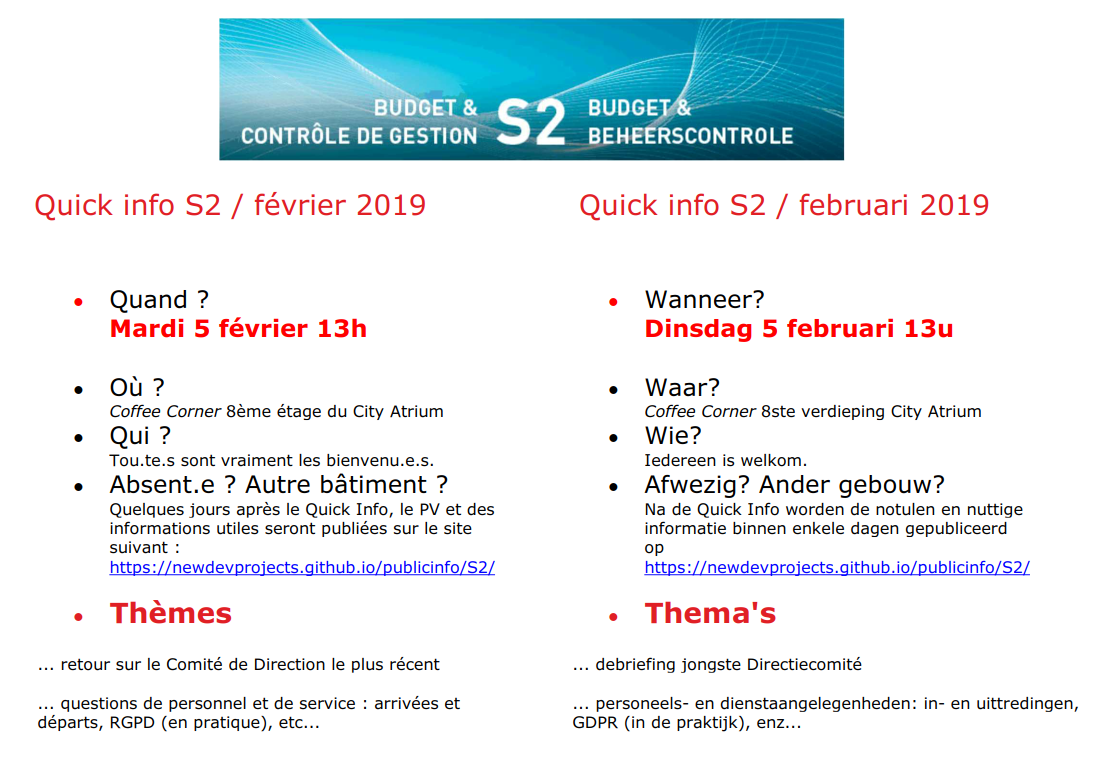
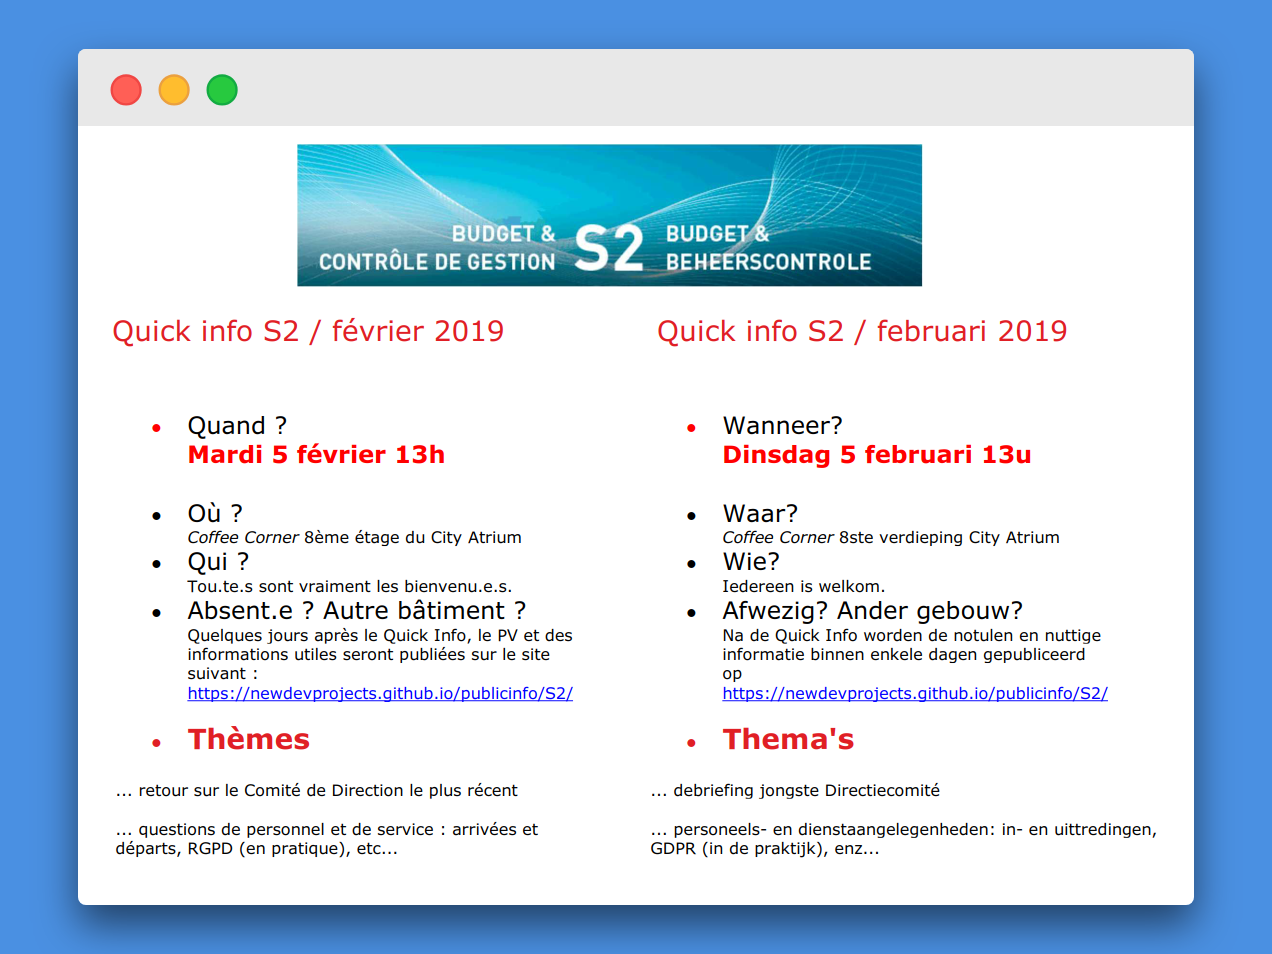
Add files via upload

diff --git a/S2/index.md b/S2/index.md
@@ -14,7 +14,9 @@
 
 ### <mark>&nbsp;New&nbsp;</mark> ![](next.png)
 
-![](on.png) **05.02.2019** - ![Agenda](20190205_Agenda_small.png)  
+![](on.png) **05.02.2019**  
+![Agenda](20190205_Agenda_small.png)  
+(&nbsp;[Agrandir l'image / Afbeelding vergroten](20190205_Agenda.png)&nbsp;)  
 
 ## &nbsp;
 
